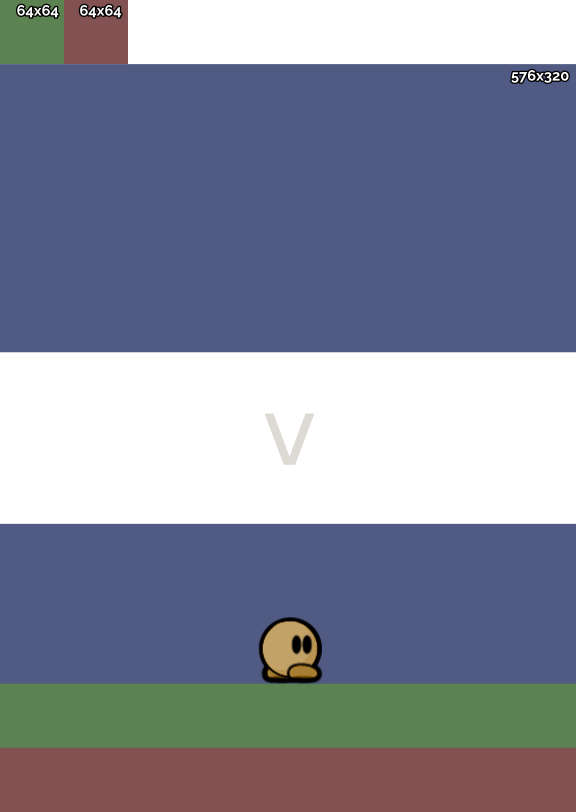
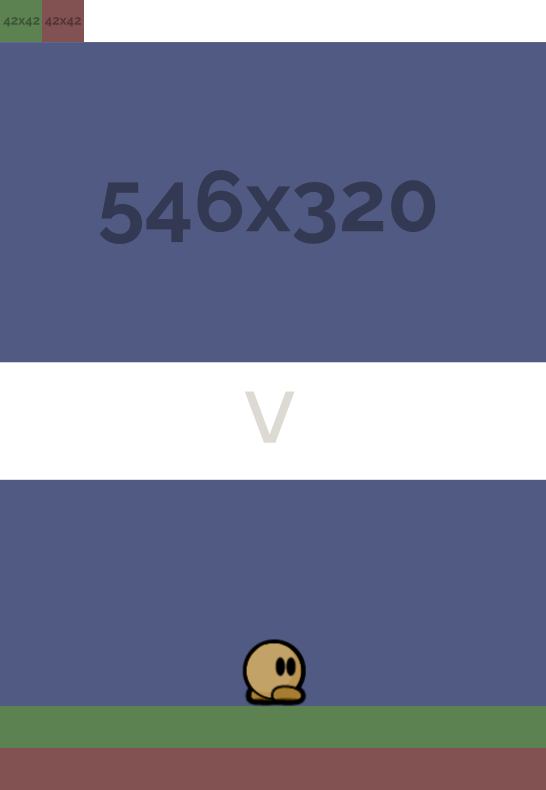
Changed scenes size to 42x42 blocks

diff --git a/cogs/render.py b/cogs/render.py
@@ -25,7 +25,7 @@ class RenderSize:
     """Some images size"""
     skin_w: int = 100
     skin_h: int = 100
-    scene_w: int = 576
+    scene_w: int = 546
     scene_h: int = 320
 
 class ColorVerify:
@@ -129,20 +129,20 @@ class TeeRender(Path, RenderSize):
         """Assemble a scene"""
         image: Image = Image.new("RGBA", (self.scene_w, self.scene_h))
         scene: Image = Image.open(f"{Path.scenes}/{self.scenename}")
-        out_ground: Image = scene.crop((0, 0, 64, 64))
-        in_ground: Image = scene.crop((64, 0, 64 + 64, 64 + 64))
+        out_ground: Image = scene.crop((0, 0, 42, 42))
+        in_ground: Image = scene.crop((42, 0, 42 + 42, 42 + 42))
 
         # Background
-        bg: Image = scene.crop((0, 64, self.scene_w, 64 + self.scene_h))
+        bg: Image = scene.crop((0, 42, self.scene_w, 42 + self.scene_h))
         image.alpha_composite(bg, dest = (0, 0))
 
         # In ground
-        for x in range(0, self.scene_w, 64):
-            image.alpha_composite(in_ground, dest = (x, self.scene_h - 64 * 1))
+        for x in range(0, self.scene_w, 42):
+            image.alpha_composite(in_ground, dest = (x, self.scene_h - 42 * 1))
 
         # Out ground
-        for x in range(0, self.scene_w, 64):
-            image.alpha_composite(out_ground, dest = (x, self.scene_h - 64 * 2))
+        for x in range(0, self.scene_w, 42):
+            image.alpha_composite(out_ground, dest = (x, self.scene_h - 42 * 2))
         return (image)
 
     def buildSkinOnScene(self, args: str, build: str = "default") -> None:
@@ -156,7 +156,7 @@ class TeeRender(Path, RenderSize):
         # Paste scene and skin on the new image
         visual.alpha_composite(scene, dest = (0, 0))
         visual.alpha_composite(skin, dest = ((self.scene_w - 
-        self.skin_w) // 2, self.scene_h - 64 * 2 - self.skin_w + 18))
+        self.skin_w) // 2, self.scene_h - 42 * 2 - self.skin_w + 18))
 
         # Overwrite self.buildname
         visual.save(f"{self.buildname}", quality = 95)
@@ -217,7 +217,7 @@ class TeeRenders(Path):
         full_list: str = ["_.png"] + list(map(lambda x: x[:-4], filterDir(self.scenes)))
         embed = discord.Embed(color=0x000000, title="Scenes", 
         description='```'+'\n'.join(full_list)+'```')
-        embed.set_footer(text="Usage: t skin <skin_name> <scene_name>")
+        embed.set_footer(text="Usage: !r skin <skin_name> <scene_name>")
 
         await user.send(embed=embed)
     
